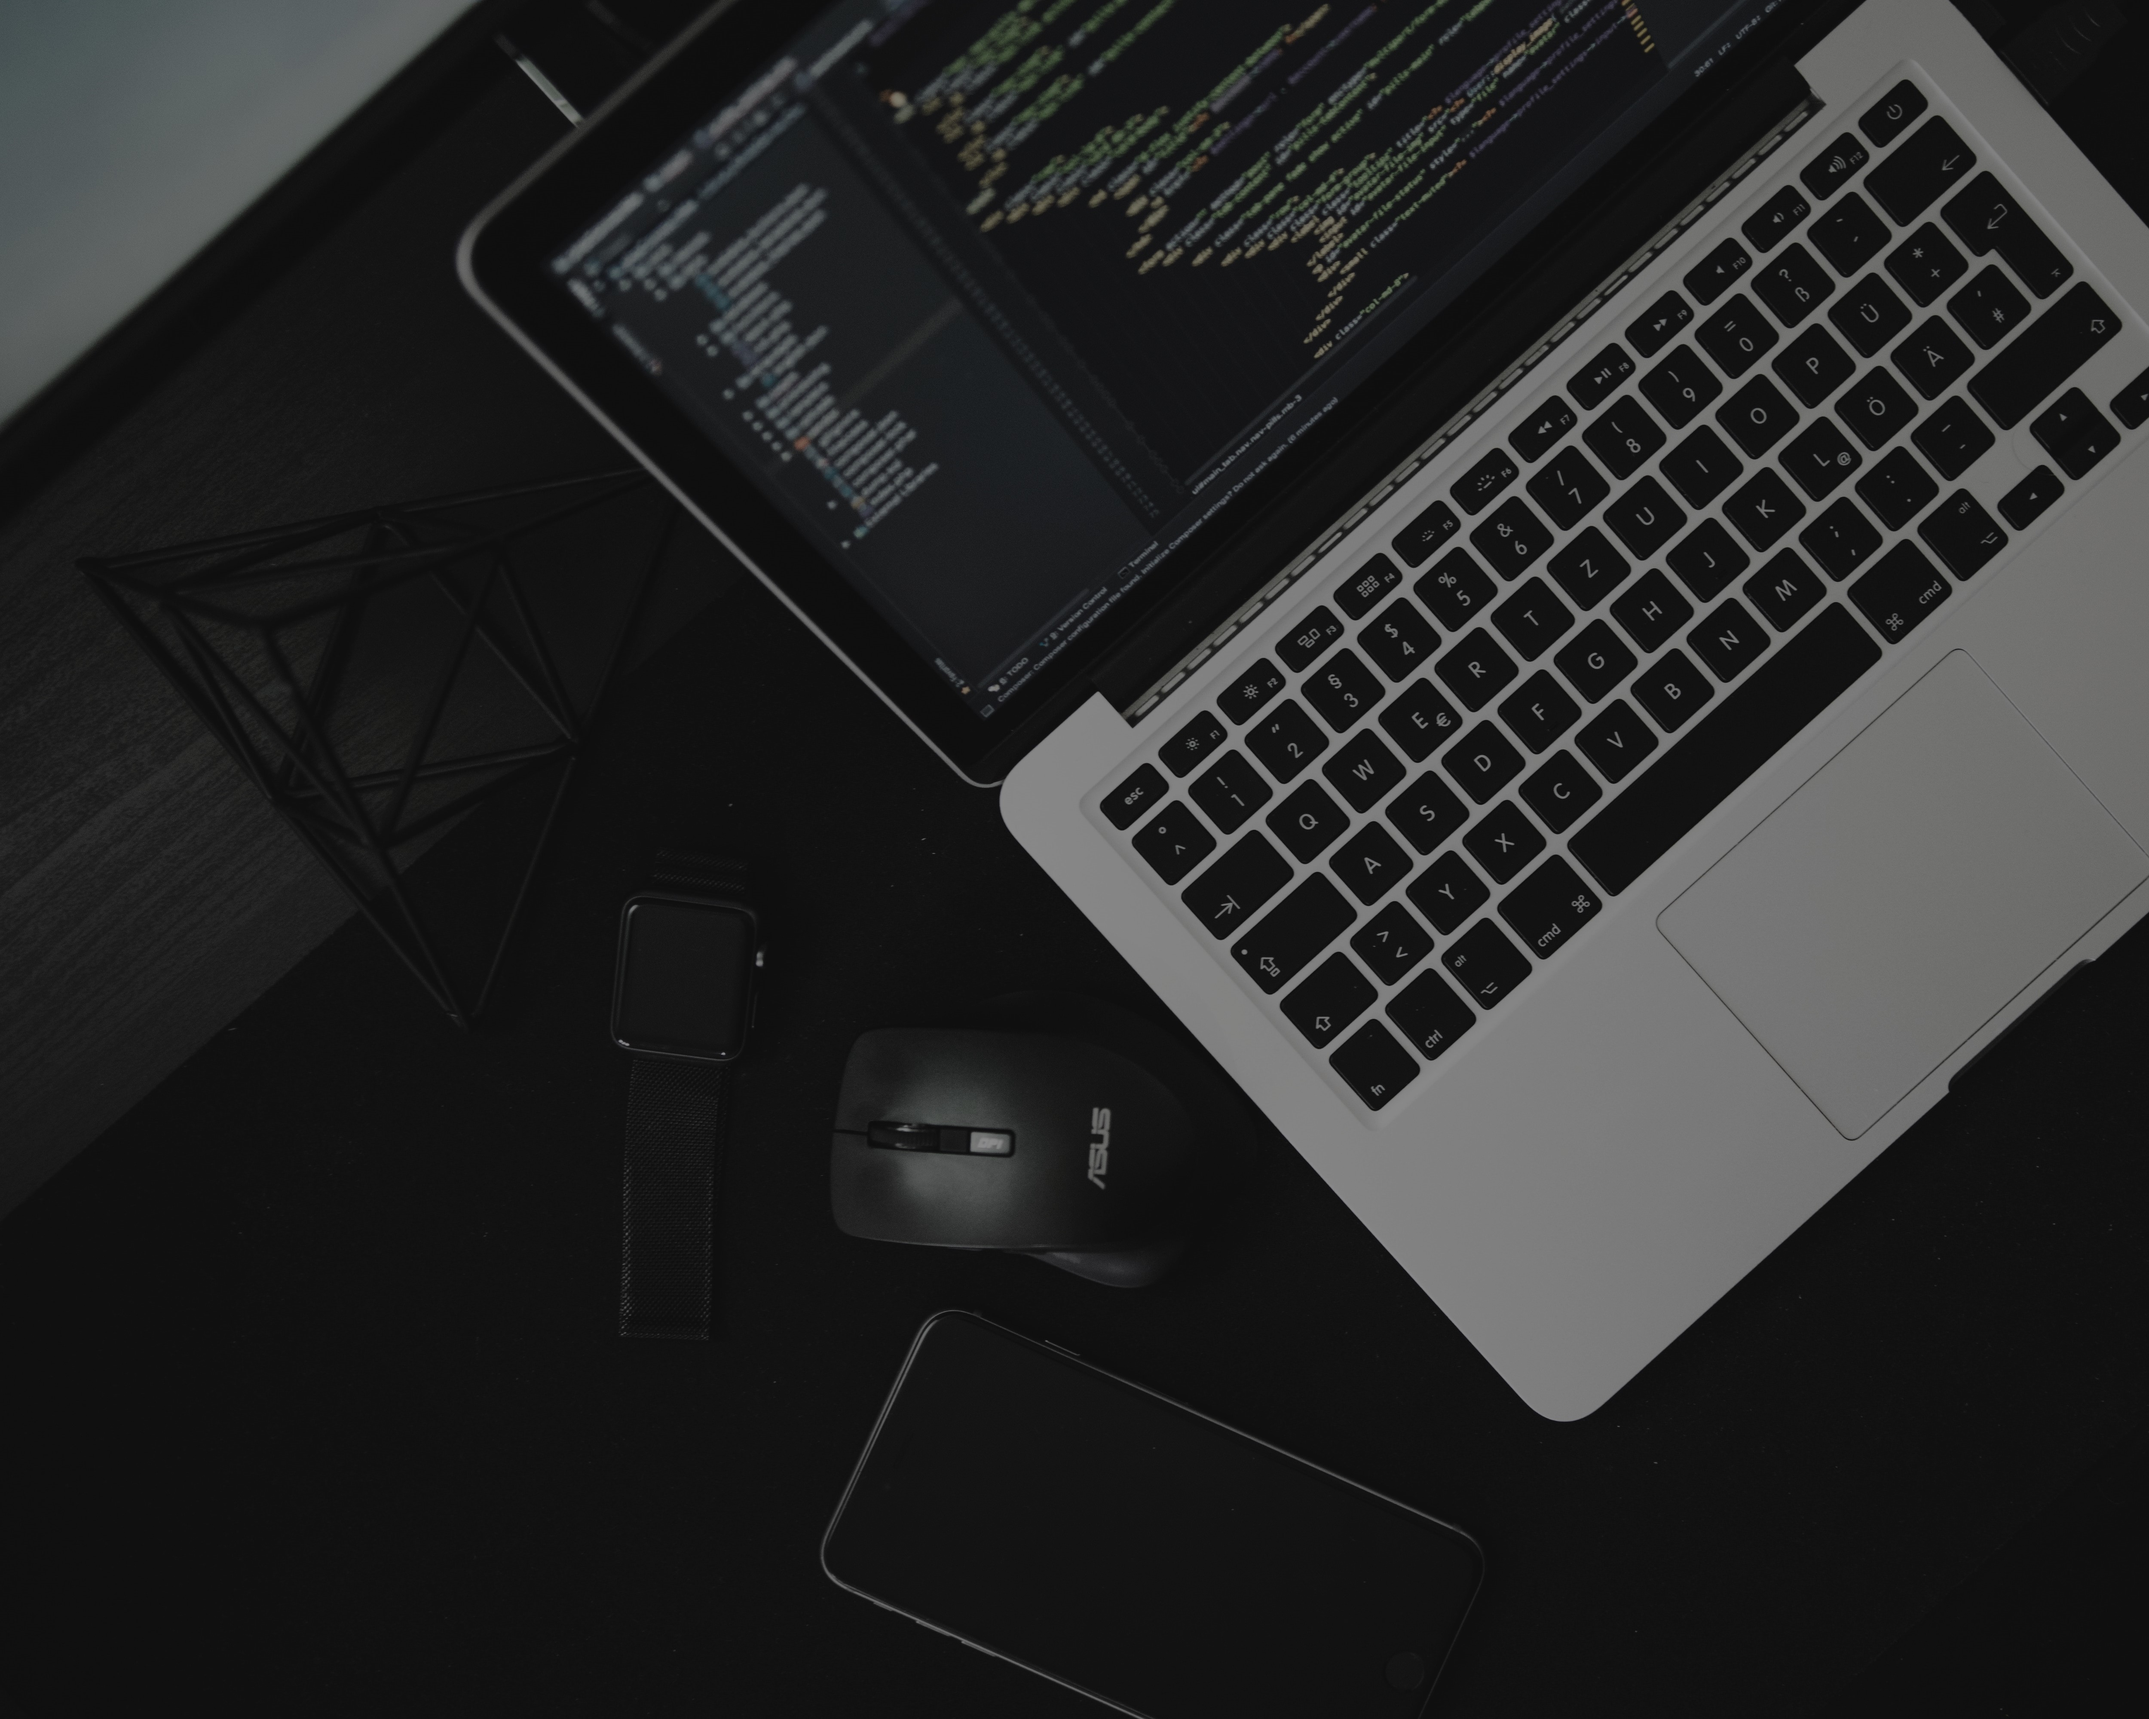
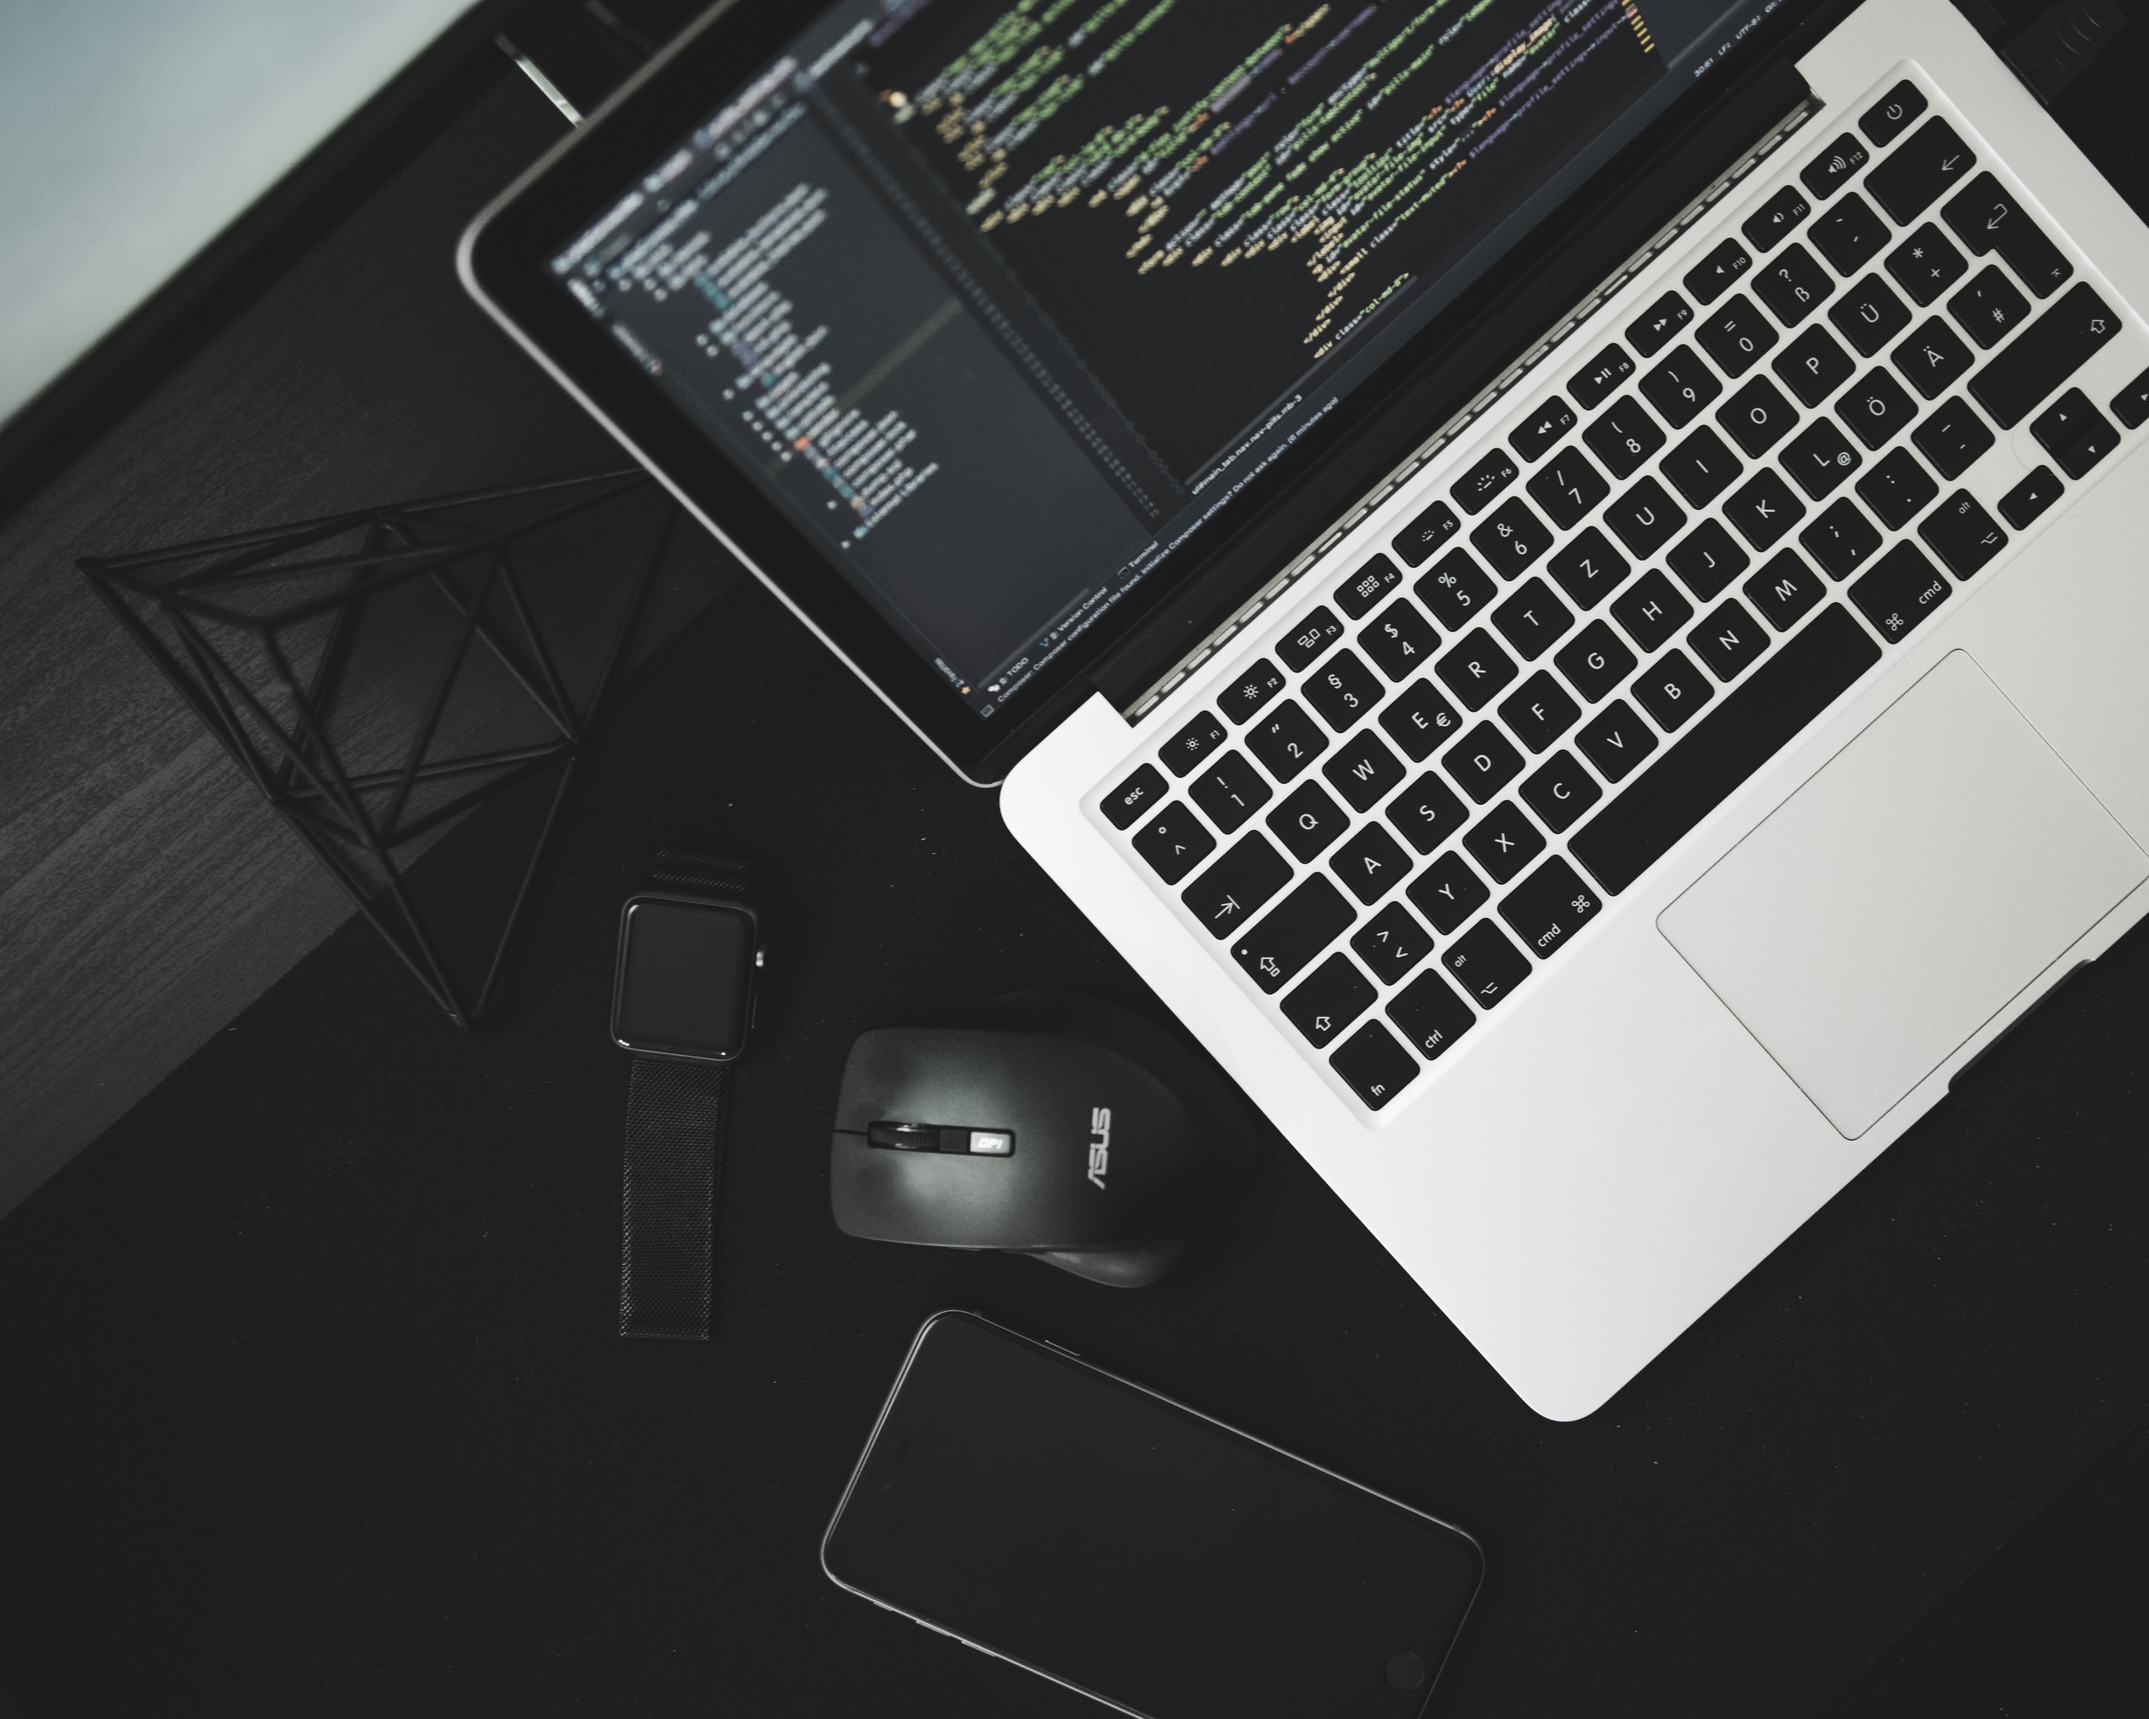
Tweaks

diff --git a/src/components/ContactSection/ContactInformation.js b/src/components/ContactSection/ContactInformation.js
@@ -3,6 +3,7 @@ import gmailIcon from "../../assets/icons/gmail.jpg";
 import phoneIcon from "../../assets/icons/phone.svg";
 import useAnimate from "../../hooks/use-animate";
 import Icon from "../Miscellaneous/Icon";
+import ListItem from "../Miscellaneous/ListItem";
 
 const ContactInformation = () => {
 	const infoHeadingRef = useAnimate(styles["animate-info-heading"], false);
@@ -30,7 +31,7 @@ const ContactInformation = () => {
 						this form and I'll get back to you as soon as possible.{" "}
 					</p>
 				</div>
-				<div ref={infoItemRef1} className={styles["info-item"]}>
+				<ListItem className={styles["info-item"]}>
 					<Icon
 						link={false}
 						src={phoneIcon}
@@ -40,8 +41,8 @@ const ContactInformation = () => {
 					<p className={`lead line ${styles["info-text"]}`}>
 						+201095536781
 					</p>
-				</div>
-				<div ref={infoItemRef2} className={styles["info-item"]}>
+				</ListItem>
+				<ListItem className={styles["info-item"]}>
 					<Icon
 						link={true}
 						to="mailto:mohammad.helaly@gmail.com"
@@ -53,7 +54,7 @@ const ContactInformation = () => {
 					<p className={`lead line ${styles["info-text"]}`}>
 						mohammad.helaly@gmail.com
 					</p>
-				</div>
+				</ListItem>
 			</div>
 		</div>
 	);

diff --git a/src/components/ContactSection/ContactInformation.module.css b/src/components/ContactSection/ContactInformation.module.css
@@ -36,19 +36,19 @@
 .info-item {
 	display: flex;
 	align-items: center;
-	opacity: 0;
-	transform: translateY(100%);
-	transition: all 1s ease;
+	/* opacity: 0; */
+	/* transform: translateY(100%); */
+	/* transition: all 1s ease; */
 }
 
 .info-item:nth-child(2) {
 	transition-delay: 300ms;
 }
 
-.animate-info-item {
+/* .animate-info-item {
 	opacity: 1;
 	transform: translateY(0);
-}
+} */
 
 .info-icon {
 	width: 30px;
@@ -86,7 +86,7 @@
 	}
 
 	.info-container {
-		padding: 0;
+		padding: 0 25px 0 25px;
 		display: flex;
 		flex-direction: column;
 		justify-items: center;
@@ -116,6 +116,8 @@
 		align-items: center;
 		/* margin-bottom: 10px; */
 		transition: all 1s ease;
+		margin-left: -20px;
+		margin-right: -20px;
 	}
 
 	.info-gm-icon {

diff --git a/src/components/AboutSection/Bio.module.css b/src/components/AboutSection/Bio.module.css
@@ -19,9 +19,9 @@
 	justify-items: center;
 }
 
-/* .bio-text {
+.bio-text {
 	padding: 0 25px 0 25px;
-} */
+}
 
 @media (max-width: 990px) {
 	.bio {

diff --git a/src/components/Background/Background.module.css b/src/components/Background/Background.module.css
@@ -5,6 +5,7 @@
 	max-width: 100vw !important;
 	object-fit: cover;
 	z-index: -2;
+	filter: brightness(0.5);
 }
 
 .background {
